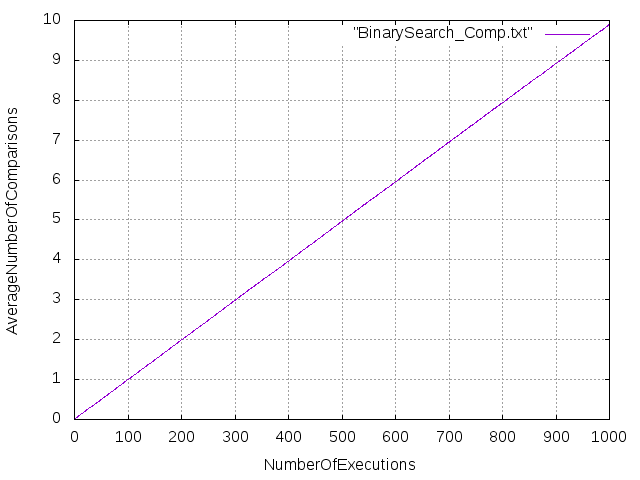
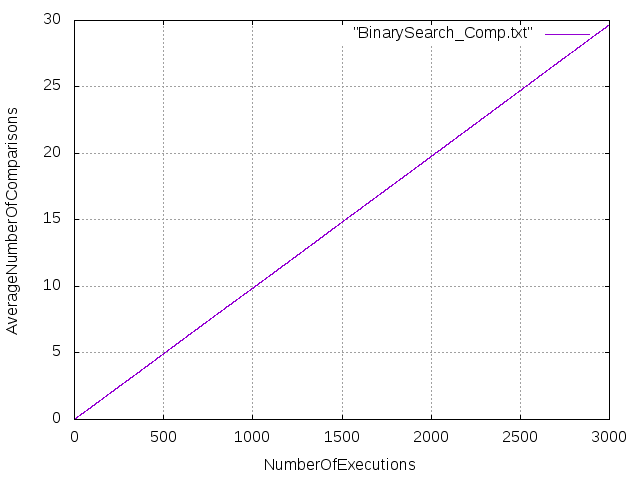
Report images

diff --git a/Benchmarks/BenchmarkFiles/InterpolationSearch_Bench.py b/Benchmarks/BenchmarkFiles/InterpolationSearch_Bench.py
@@ -13,10 +13,10 @@ def InterBench():
    times = 0
    f = open("InterpolationSearch_Comp.txt","w")
    f0 = open("InterpolationSearch_Time.txt","w")
-   while(times<1000):
-       start = time.time()
+   while(times<3000):
+       start = time.clock()
        pop = InterpolationSearch(key)
-       end += time.time() - start
+       end += time.clock() - start
        res.append(pop)
        avg = sum(res)/(len(key)-1)
        f.write(str(times)+" "+str(avg)+"\n")

diff --git a/Benchmarks/BenchmarkFiles/LinearSearch_Bench.py b/Benchmarks/BenchmarkFiles/LinearSearch_Bench.py
@@ -13,10 +13,10 @@ def LinBench():
    times = 0
    f = open("LinearSearch_Comp.txt","w")
    f0 = open("LinearSearch_Time.txt","w")
-   while(times<1000):
-       start = time.time()
+   while(times<3000):
+       start = time.clock()
        pop = LinearSearch(key)
-       end += time.time() - start
+       end += time.clock() - start
        res.append(round(pop))
        avg = sum(res)/(len(key)-1)
        f.write(str(times)+" "+str(avg)+"\n")

diff --git a/Benchmarks/BenchmarkFiles/BinarySearch_Bench.py b/Benchmarks/BenchmarkFiles/BinarySearch_Bench.py
@@ -13,10 +13,10 @@ def BinBench():
    times = 0
    f = open("BinarySearch_Comp.txt","w")
    f0 = open("BinarySearch_Time.txt","w")
-   while(times<1000):
-       start = time.time()
+   while(times<3000):
+       start = time.clock()
        pop = BinarySearch(key)
-       end += time.time() - start
+       end += time.clock() - start
        res.append(pop) 
        avg = sum(res)/(len(key)-1)
        f.write(str(times)+" "+str(avg)+"\n")
